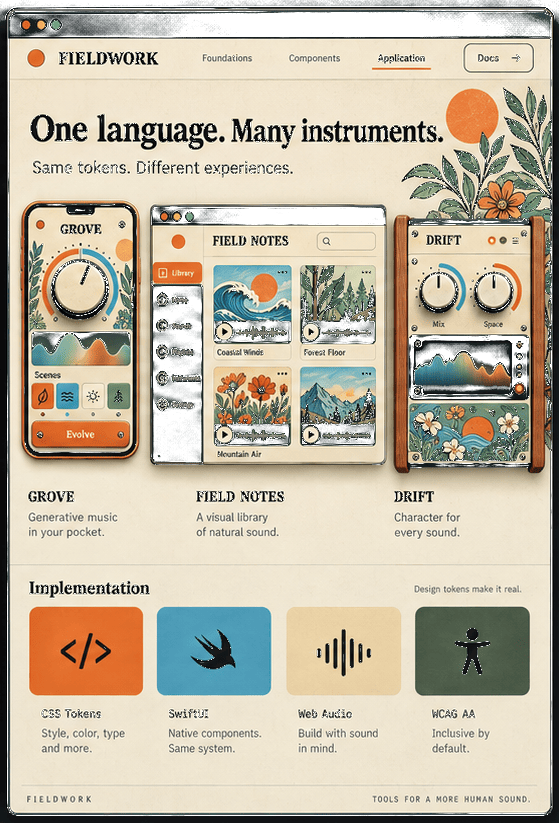
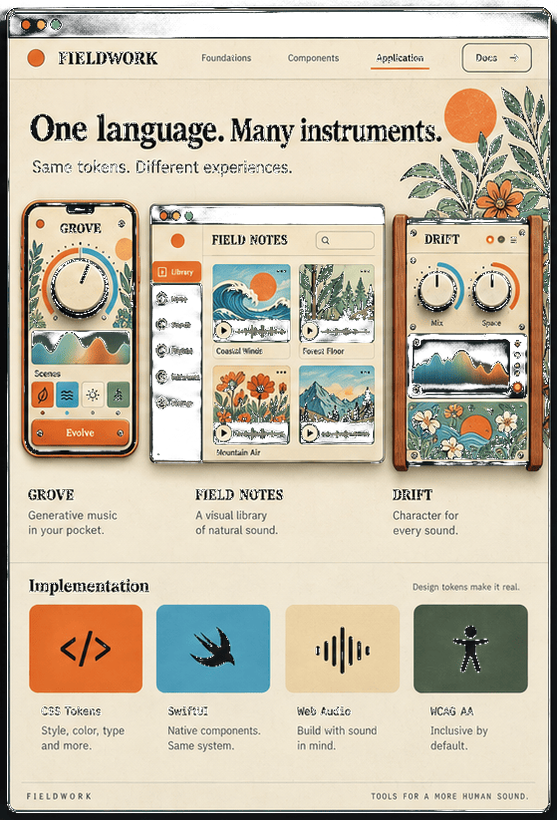
Normalize Fieldwork sheet assets to one canvas size.
Scale opaque content to a shared height and pad so the three style-guide images render at the same height in the gallery.

diff --git a/site/assets/site.css b/site/assets/site.css
@@ -389,18 +389,15 @@ h2 {
   display: grid;
   grid-template-columns: repeat(3, 1fr);
   gap: 18px;
-  align-items: stretch;
+  align-items: start;
 }
 .reads-card {
-  display: flex;
-  aspect-ratio: 531 / 820;
-  min-height: 0;
+  display: block;
+  line-height: 0;
 }
 .reads-shot {
   width: 100%;
-  height: 100%;
-  object-fit: contain;
-  object-position: top center;
+  height: auto;
   display: block;
   filter: drop-shadow(0 14px 26px rgba(0, 0, 0, 0.35));
 }
